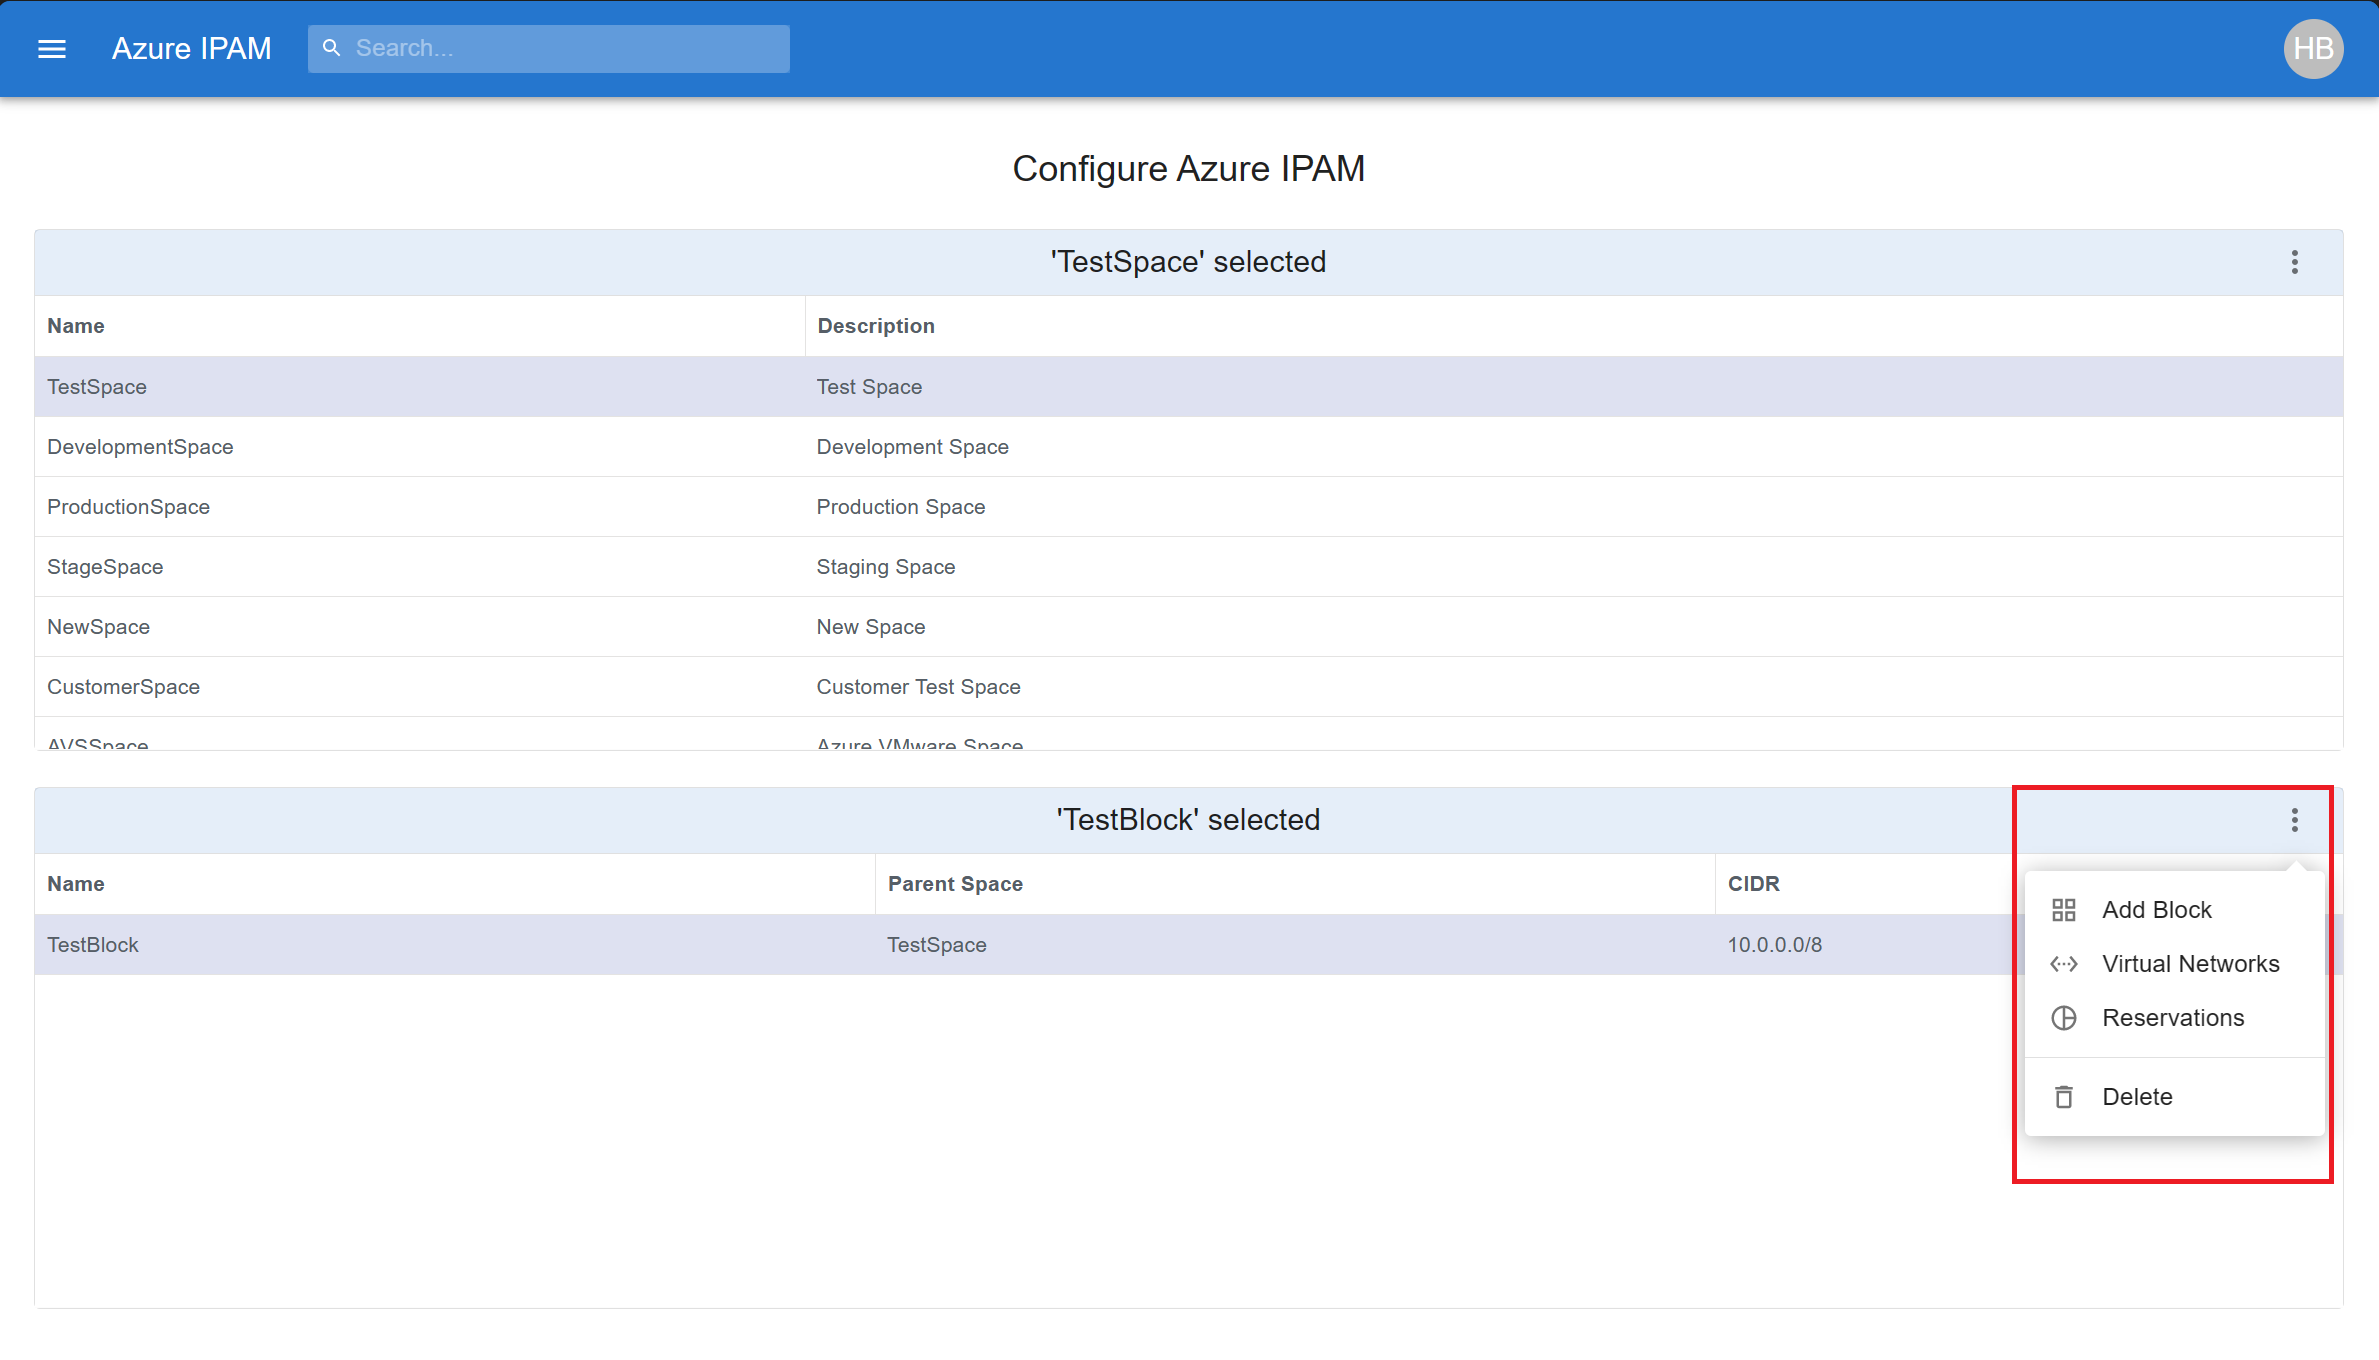
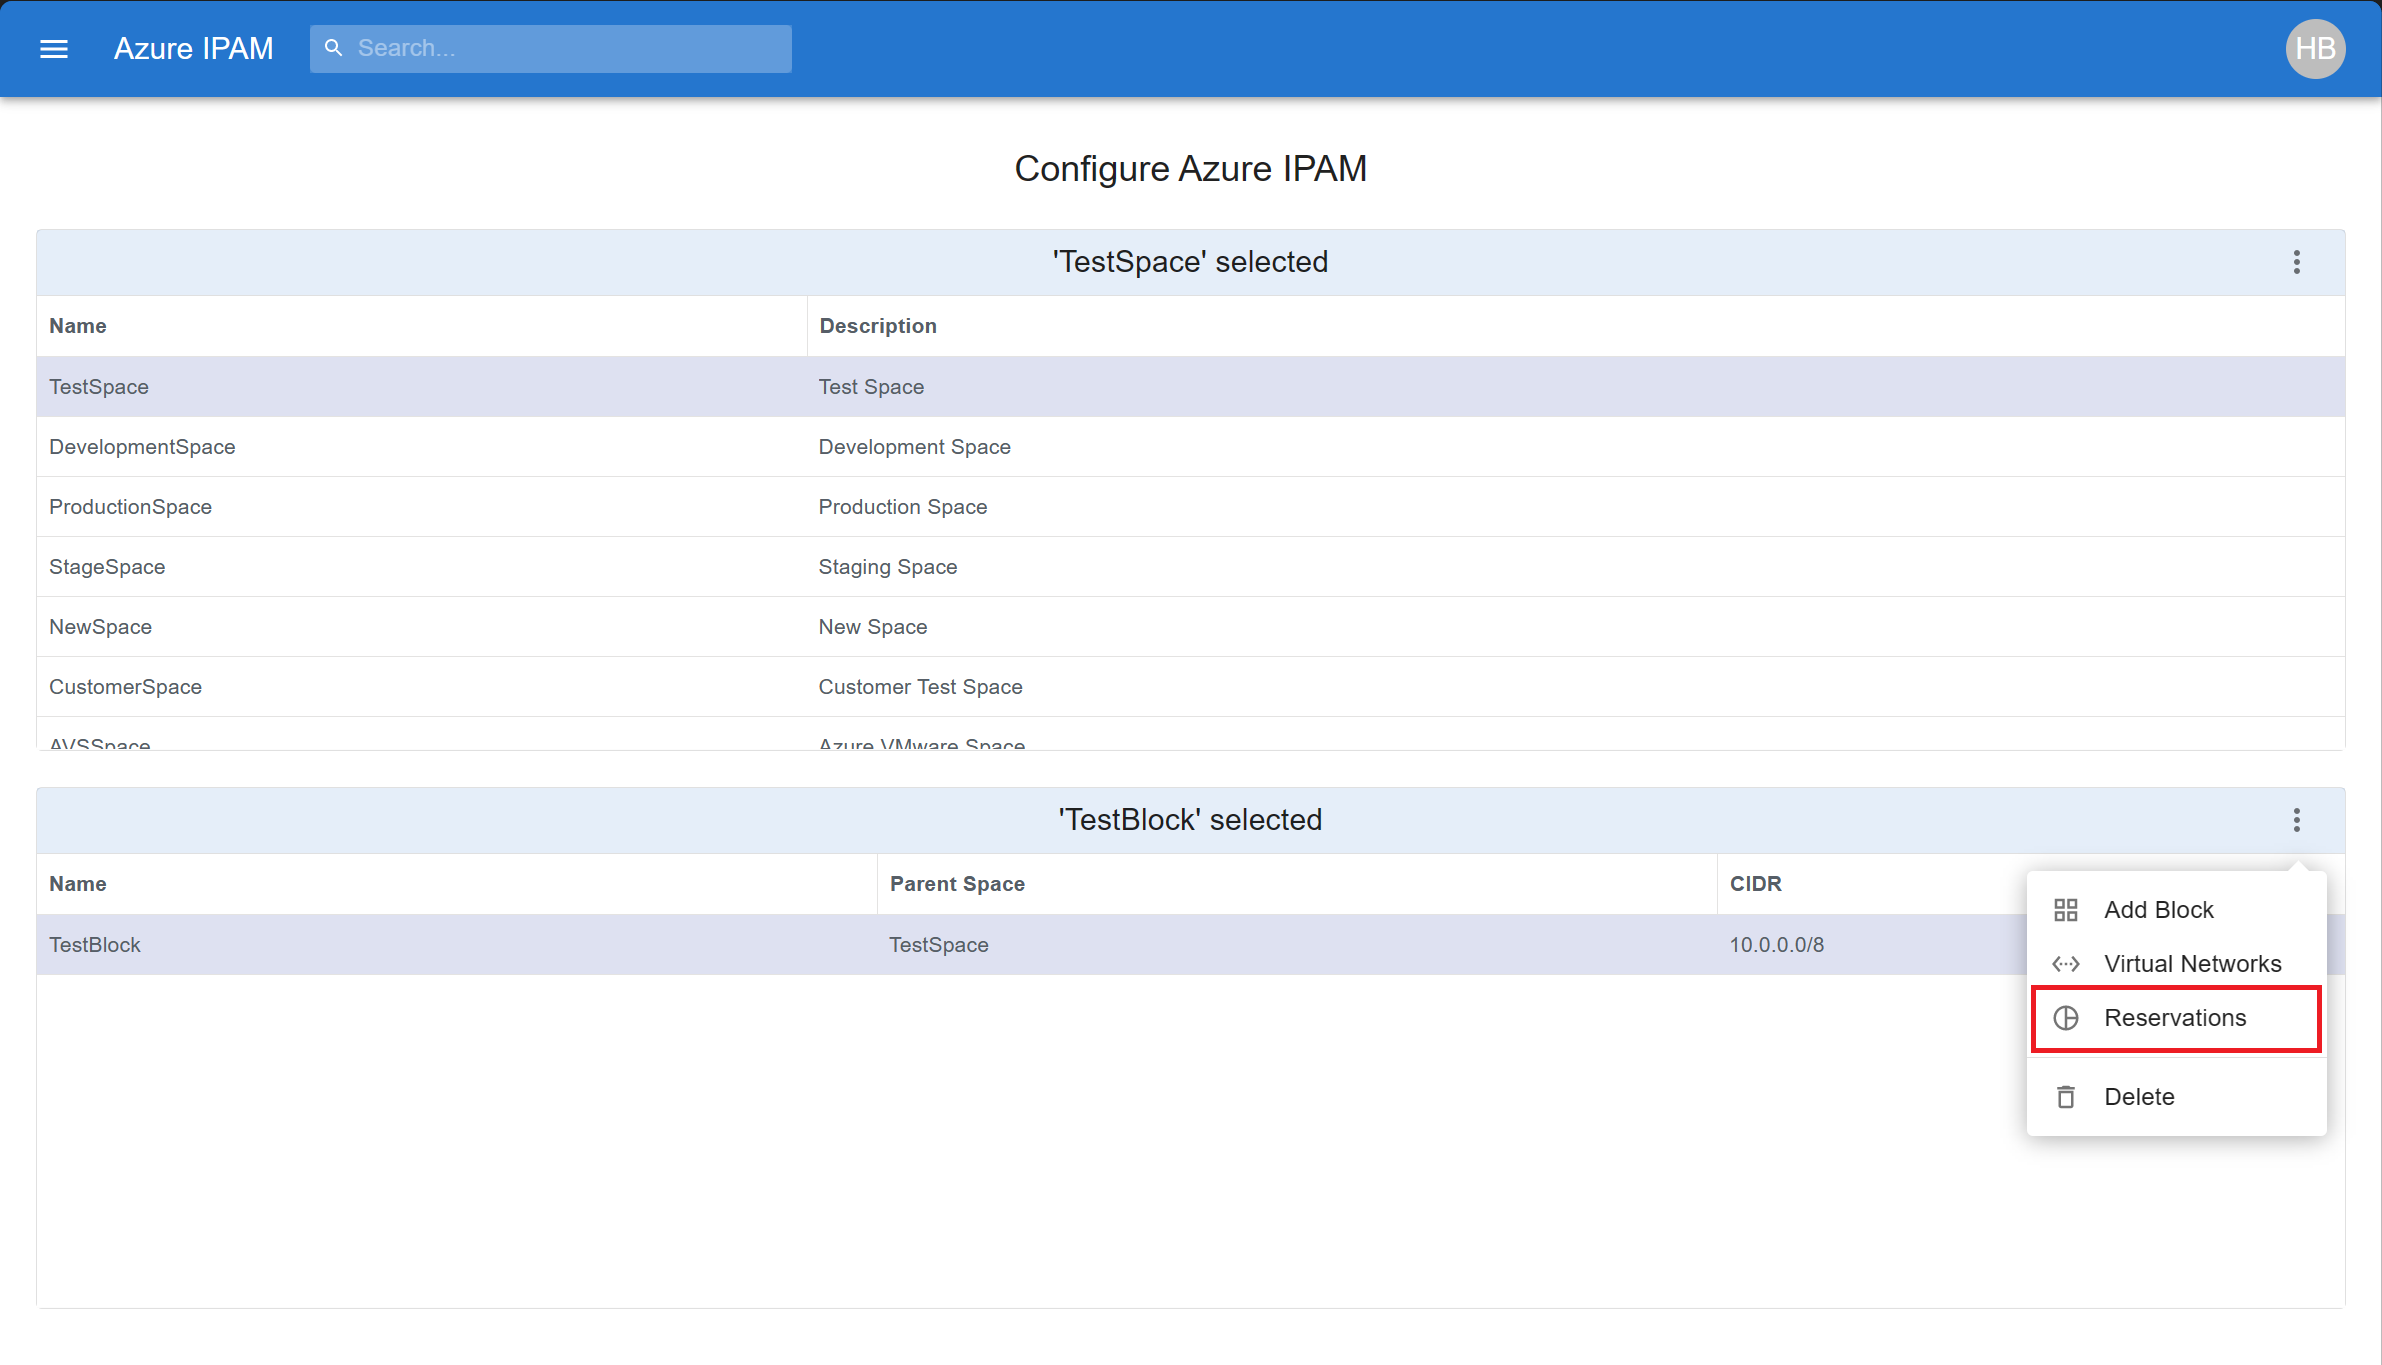
update blocks reservation image

diff --git a/docs/how-to/README.md b/docs/how-to/README.md
@@ -96,7 +96,7 @@ After POSTing your request, you will recieve a response of type **201 Created** 
 
 ![Postman CIDR reservation response](./images/postman_response.png)
 
-In IPAM, you can see your reservation by navigating to the target **Block**, clicking on the 3 elipses, and selecting **Reservations**. 
+In IPAM, you can see your reservation by navigating to the target **Block**, clicking on the 3 ellipses, and selecting **Reservations**. 
 
 ![Target Block Reservation](./images/configure_blocks_reservations.png)
 
